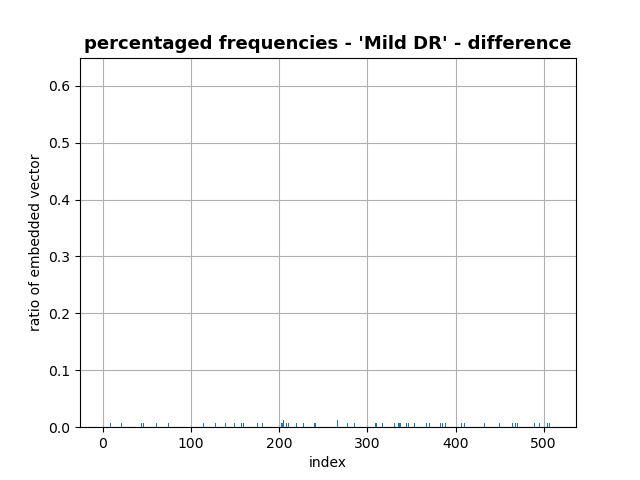
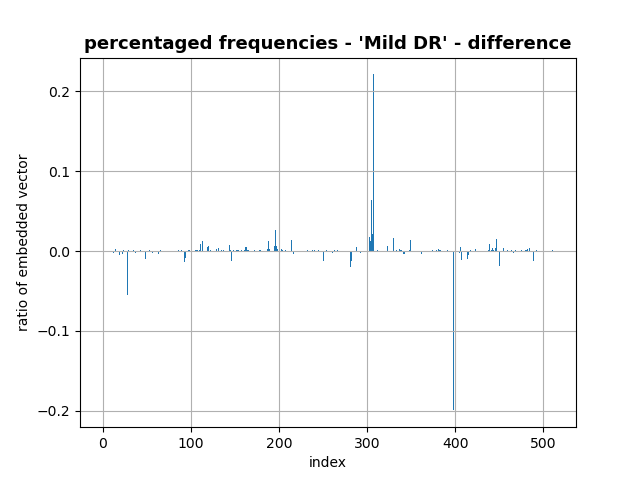
vq_vae2

diff --git a/utils/introspection.py b/utils/introspection.py
@@ -316,7 +316,7 @@ def visualize_latent_space(test_data, img_folder, csv, vq_vae,
     print("Generate histograms...")
     for j, level_data in tqdm(enumerate(data)):
         level_data = torch.tensor(level_data)
-        bins = np.zeros(num_emb)
+        counts = np.zeros(num_emb)
         level_data = DataLoader(level_data, batch_size=batch_size)
         with torch.no_grad():
             for i, d in enumerate(level_data):
@@ -325,15 +325,16 @@ def visualize_latent_space(test_data, img_folder, csv, vq_vae,
                 if mode == Mode.vq_vae_2:
                     indices_bottom = vq_vae.encode(d)
                     indices_bottom = indices_bottom.cpu().detach().numpy().astype(np.uint16)
-                    bins_to_add = np.bincount(indices_bottom.ravel(), minlength=num_emb)
-                    bins = np.add(bins, bins_to_add)
+                    counts_to_add = np.bincount(indices_bottom.ravel(), minlength=num_emb)
+                    counts = np.add(counts, counts_to_add)
                 else:
                     indices = vq_vae.encode(d)
                     indices = indices.cpu().detach().numpy().astype(np.uint16)
-                    bins_to_add = np.bincount(indices.ravel(), minlength=num_emb)
-                    bins = np.add(bins, bins_to_add)
+                    counts_to_add = np.bincount(indices.ravel(), minlength=num_emb)
+                    counts = np.add(counts, counts_to_add)
 
-        histograms[j] = bins
+        # Normalize counts
+        histograms[j] = np.divide(counts, np.sum(counts))
 
     hist_intersection = np.amin(histograms, axis=0)
 
@@ -341,7 +342,8 @@ def visualize_latent_space(test_data, img_folder, csv, vq_vae,
         # Sort indices of embedded vectors regarding best order
         hist = hist[best_order]
 
-        plt.hist(hist, bins=np.arange(num_emb), density=True)
+        #plt.hist(hist, bins=np.arange(num_emb), density=True)
+        plt.bar(np.arange(num_emb), hist)
         plt.title(f"percentaged frequencies - \'{disease_states[j]}\'",
                   fontsize=13,
                   fontweight='bold'
@@ -349,19 +351,18 @@ def visualize_latent_space(test_data, img_folder, csv, vq_vae,
         plt.xlabel("index")
         plt.ylabel("ratio of embedded vector")
         plt.grid()
-        #plt.ylim(0.0, 1.0)
         plt.savefig(f"{network_dir}/histograms/histogram_{disease_states[j]}.png")
         plt.show(block=False)
         plt.pause(2)
         plt.close()
 
-        plt.hist(np.subtract(hist, hist_intersection), bins=np.arange(num_emb), density=True)
+        #plt.hist(np.subtract(hist, hist_intersection), bins=np.arange(num_emb), density=True)
+        plt.bar(np.arange(num_emb), np.subtract(hist, hist_intersection))
         plt.title(f"percentaged frequencies - \'{disease_states[j]}\' - difference",
                   fontsize=13,
                   fontweight='bold'
                   )
         plt.grid()
-        #plt.ylim(0.0, 1.0)
         plt.xlabel("index")
         plt.ylabel("ratio of embedded vector")
         plt.savefig(f"{network_dir}/histograms/histogram_{disease_states[j]}_diff.png")
@@ -372,8 +373,10 @@ def visualize_latent_space(test_data, img_folder, csv, vq_vae,
     # Plot overlap of histograms
     plt.figure(figsize=(12, 12))
     for i, hist in enumerate(histograms):
-        plt.hist(hist, bins=np.arange(num_emb), density=True, alpha=0.5, label=disease_states[i])
-    #plt.ylim(0.0, 1.0)
+        hist = hist[best_order]
+        #plt.hist(hist, bins=np.arange(num_emb), density=True, alpha=0.5, label=disease_states[i])
+        plt.bar(np.arange(num_emb), hist, color=colormap[i])
+
     plt.title("multiple histograms of all disease states",
               fontsize=13,
               fontweight='bold')
